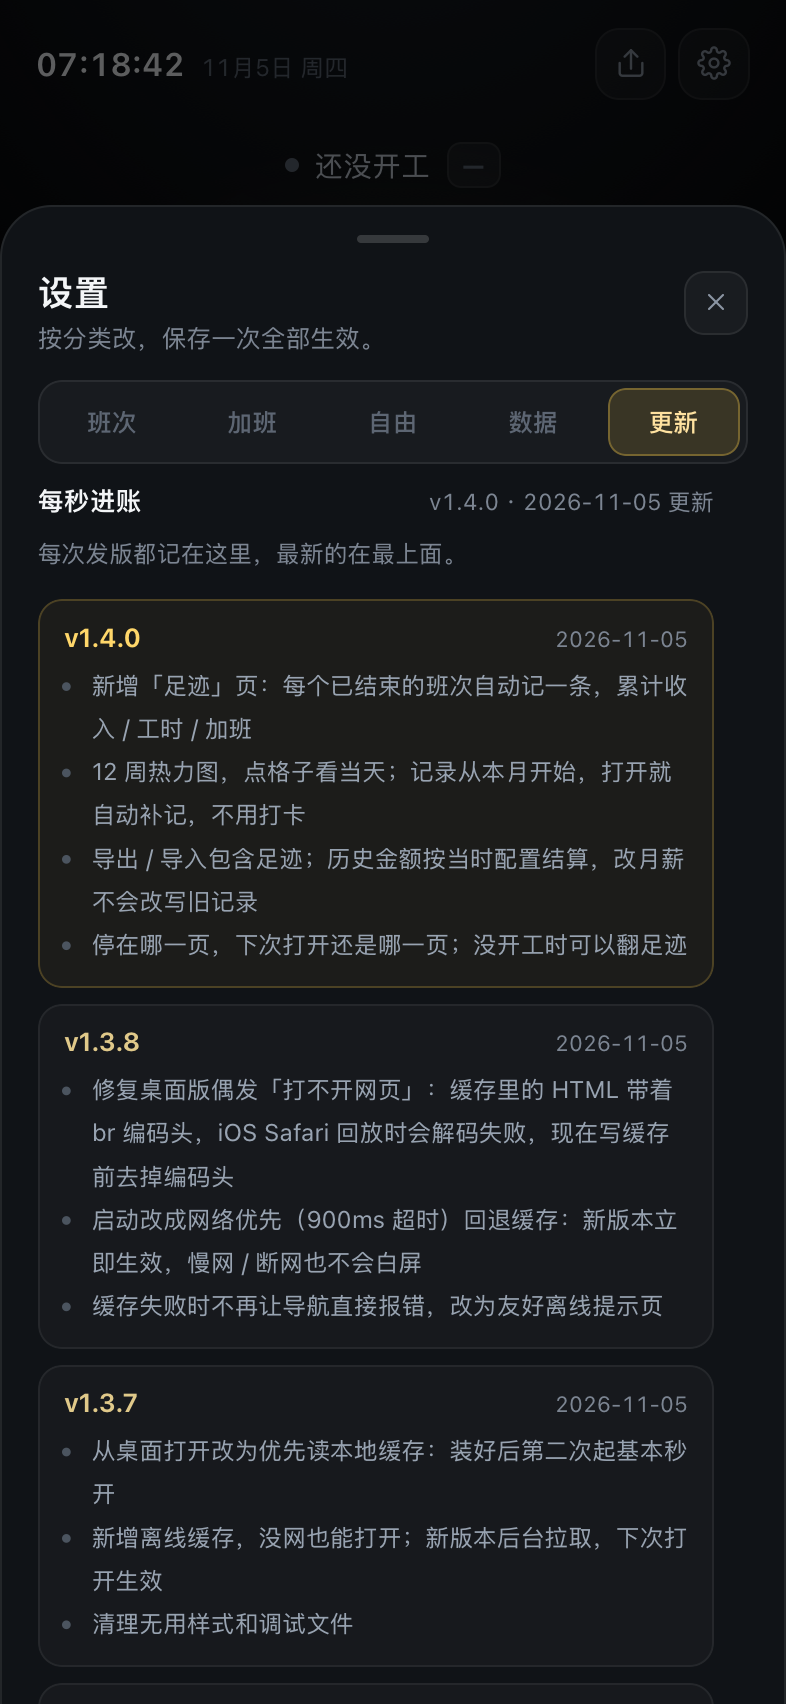
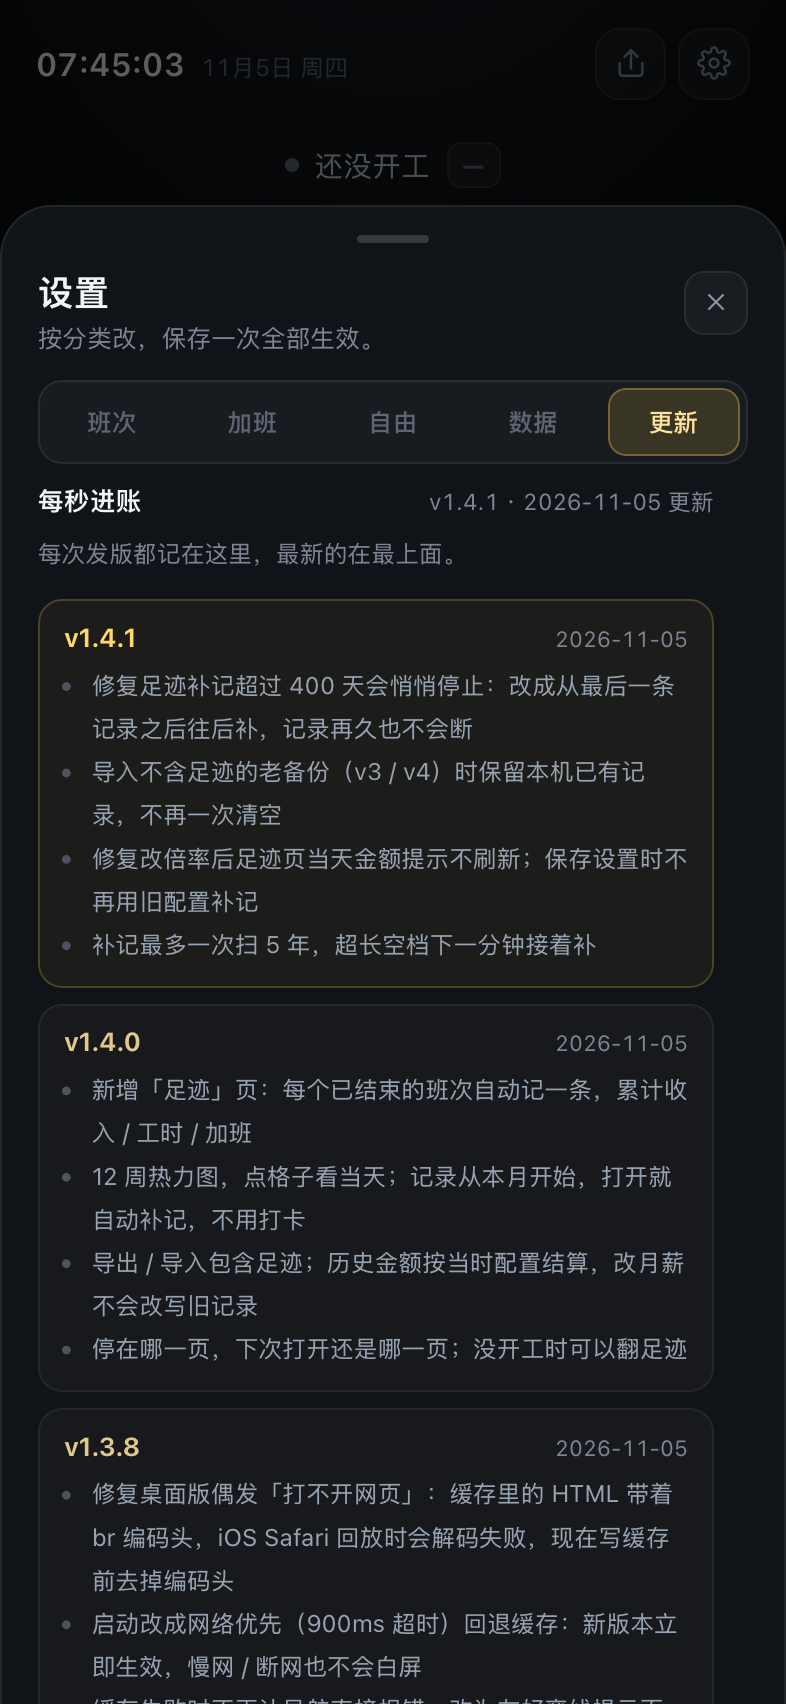
fix: keep footprint backfill alive past 400 days and preserve it on old imports (v1.4.1)

diff --git a/index.html b/index.html
@@ -1185,8 +1185,14 @@
   }
 
   // 当前版本 + 更新日志（发版时改这里，设置面板直接渲染）
-  var APP_VERSION = "1.4.0";
+  var APP_VERSION = "1.4.1";
   var CHANGELOG = [
+    { version: "1.4.1", date: "2026-11-05", items: [
+      "修复足迹补记超过 400 天会悄悄停止：改成从最后一条记录之后往后补，记录再久也不会断",
+      "导入不含足迹的老备份（v3 / v4）时保留本机已有记录，不再一次清空",
+      "修复改倍率后足迹页当天金额提示不刷新；保存设置时不再用旧配置补记",
+      "补记最多一次扫 5 年，超长空档下一分钟接着补"
+    ] },
     { version: "1.4.0", date: "2026-11-05", items: [
       "新增「足迹」页：每个已结束的班次自动记一条，累计收入 / 工时 / 加班",
       "12 周热力图，点格子看当天；记录从本月开始，打开就自动补记，不用打卡",
@@ -2009,6 +2015,20 @@
     return cells;
   }
 
+  // 补记从哪一天开始：recordStart 与「最后一条快照之后」取较大者。
+  // 增量补记只扫最近的空档，历史不会因为越记越久就每次都从头重扫。
+  function historyBackfillStart(history, recordStart, now){
+    var start = new Date(recordStart + "T00:00:00").getTime();
+    var end = startOfDay(now);
+    var latest = 0;
+    Object.keys(history || {}).forEach(function(k){
+      var t = new Date(k + "T00:00:00").getTime();
+      if (isFinite(t) && t <= end && t > latest) latest = t;
+    });
+    if (latest && latest + DAY_MS > start) start = latest + DAY_MS;
+    return start;
+  }
+
   // 解析一段备份文本；失败时 error 是给用户看的一句话
   function decodeBackup(raw){
     var out = { ok: false, error: "", version: 0, cfg: null, dayFlags: null, count: 0,
@@ -2081,17 +2101,19 @@
     } catch (e) {}
   }
 
-  // 自动补记：从 recordStart 到今天的每个已结束班次，各存一条快照
+  // 自动补记：从「最后一条快照之后」扫到今天的每个已结束班次，各存一条快照。
+  // 没有快照时从 recordStart 开始；单次最多扫 1830 天（约 5 年，实测 ~6ms），
+  // 更长的空档下一分钟会从上次停下的地方接着补，不会卡住。
   function ensureHistory(now){
     var changed = false;
     if (!isValidDateKey(state.recordStart)){
       state.recordStart = dayKey(startOfMonth(now));
       changed = true;
     }
-    var start = new Date(state.recordStart + "T00:00:00").getTime();
+    var start = historyBackfillStart(state.history, state.recordStart, now);
     var end = startOfDay(now);
     var d = start, guard = 0;
-    while (d <= end && guard++ < 400){
+    while (d <= end && guard++ < 1830){
       var k = dayKey(d);
       if (!state.history[k]){
         var snap = snapshotDay(state.cfg, state.dayFlags, d, now);
@@ -2105,11 +2127,15 @@
     }
   }
 
-  // 改了某天标记后，把那天已经生成的快照删掉，下一次 ensureHistory 重算
+  // 改了某天标记后，删掉旧快照并按当前配置重算。
+  // 不能只删不补：中间某天（早于最后一条快照）被删后，增量补记不会再扫到它。
   function dropHistory(dayTs){
     var k = dayKey(dayTs);
-    if (state.history[k]){
-      delete state.history[k];
+    var had = !!state.history[k];
+    if (had) delete state.history[k];
+    var snap = snapshotDay(state.cfg, state.dayFlags, dayTs, Date.now());
+    if (snap) state.history[k] = snap;
+    if (had || snap){
       state.historyRev += 1;
       save();
     }
@@ -2488,8 +2514,8 @@
       }
     }
     var sig = state.historyRev + "|" + Object.keys(state.history).length + "|" + todayK + "|" +
-      (todayLive ? Math.floor(todayLive.sec / 60) : -1) + "|" + state.recordStart + "|" +
-      Math.round(full) + "|" + Math.round(Number(state.cfg.salary) || 0);
+      (todayLive ? Math.floor(todayLive.sec / 60) + ":" + Math.round(todayLive.amount) : "-") + "|" +
+      state.recordStart + "|" + Math.round(full) + "|" + Math.round(Number(state.cfg.salary) || 0);
     if (sig === hmSig) return;
     hmSig = sig;
 
@@ -3380,9 +3406,9 @@
     cfg.otHoliday = Math.max(1, cfg.otHoliday);
     cfg.payday = Math.max(1, Math.min(31, cfg.payday));
 
-    ensureHistory(Date.now());
     state.cfg = cfg;
     state.firstRun = false;
+    ensureHistory(Date.now());
     cache = {};
     save();
     closeSheet();
@@ -3451,11 +3477,19 @@
   function doImport(){
     var parsed = decodeBackup(dataText.value);
     if (!parsed.ok){ toast(parsed.error); return; }
-    if (!confirm("导入会覆盖当前的配置、标记和足迹，继续？")) return;
+    var localDays = Object.keys(state.history).length;
+    // 老备份（v3/v4）没有足迹：保留本机记录，别让一次导入把足迹清空
+    var keepFootprint = parsed.historyCount === 0 && localDays > 0;
+    var tip = keepFootprint
+      ? "这份备份不含足迹，导入后保留本机已有的 " + localDays + " 天记录。配置和标记会被覆盖，继续？"
+      : "导入会覆盖当前的配置、标记和足迹" + (localDays ? "（" + localDays + " 天）" : "") + "，继续？";
+    if (!confirm(tip)) return;
     state.cfg = parsed.cfg;
     state.dayFlags = parsed.dayFlags;
-    state.history = parsed.history || {};
-    state.recordStart = parsed.recordStart || "";
+    if (!keepFootprint){
+      state.history = parsed.history || {};
+      state.recordStart = parsed.recordStart || "";
+    }
     state.historyRev += 1;
     state.firstRun = false;
     ensureHistory(Date.now());
@@ -3465,7 +3499,8 @@
     closeSheet();
     render();
     toast("已导入 · 月薪 ¥" + fmt0(state.cfg.salary) + " · " + parsed.count + " 天标记"
-      + (parsed.historyCount ? " · " + parsed.historyCount + " 天足迹" : "") + versionNote(parsed.version));
+      + (parsed.historyCount ? " · " + parsed.historyCount + " 天足迹" : (keepFootprint ? " · 保留本机足迹" : ""))
+      + versionNote(parsed.version));
   }
 
   function pasteIntoData(){

diff --git a/sw.js b/sw.js
@@ -8,7 +8,7 @@
  * 导航策略：网络优先（900ms 超时），失败回退干净缓存，再失败给友好离线页。
  * 这样新版能立刻生效，慢网/断网也不会白屏。
  */
-const VERSION = "1.4.0";
+const VERSION = "1.4.1";
 const CACHE = "money-meter-" + VERSION;
 const CORE = [
   "./index.html",

diff --git a/README.zh.md b/README.zh.md
@@ -185,7 +185,7 @@
 - 12 周热力图：颜色越深表示当天班越长，点格子能看当天的工时和金额
 - 累计上班天数 / 工时 / 加班，本月、上月、平均每班，一页看完
 - 停在这一页，下次打开还是「足迹」——没开工时也有东西可翻
-- 导出 / 导入会带上足迹；换设备不丢记录
+- 导出 / 导入会带上足迹；换设备不丢记录；导入不含足迹的老备份时会保留本机记录
 - 不定位、不上传、不后台运行：这是网页能做到的边界，记录的是"时间换来的钱"，不是你去过哪里
 
 <p align="center">
@@ -285,7 +285,7 @@
 
 ## 版本与更新
 
-- 当前版本 **v1.4.0**（2026-11-05）
+- 当前版本 **v1.4.1**（2026-11-05）
 - 设置分成「班次 / 加班 / 自由 / 数据 / 更新」五类；更新日志在「更新」页，有版本号、更新时间、每个版本改了什么
 - 有新版本时点设置会直接打开「更新」页，右上角齿轮也会亮一个小圆点；看过一次就不再提示
 - 屏幕够高时主界面底部也会显示版本号（矮屏收在设置 → 更新里）
@@ -301,7 +301,7 @@
 - 改了设置随时生效，加班/请假/节假日标记按天保留（保留最近 150 天），记录面板列最近 30 天
 - 记错了：主界面再点一下同样的按钮取消，或者去 设置 → 数据 →「打开记录」删掉那天
 - **换设备 / 清缓存前先备份**：设置 → 数据 →「导出配置」，把整段 JSON 粘到备忘录；新设备上「导入配置」原样搬回来（月薪、班次、多段休息、倍率、所有标记）
-- 导入会覆盖当前配置与标记；备份带版本号，老版本会自动迁移
+- 导入会覆盖当前配置与标记；备份带版本号，老版本会自动迁移。备份里带足迹时足迹一并替换，不含足迹的老备份（v3 / v4）则保留本机已有记录
 - 设置 → 数据页有「清空加班 / 请假标记」
 
 ---
@@ -316,7 +316,7 @@ money-meter/
 ├── manifest.json       添加到主屏幕用的 Web App 配置
 ├── icon.svg / *.png    图标
 ├── shots/              截图
-├── tests/core.test.mjs 计薪内核单元测试（255 项）
+├── tests/core.test.mjs 计薪内核单元测试（263 项）
 └── tools/
     ├── make_icons.py   重新生成图标
     └── shot.swift      用 WKWebView 渲染截图（自检用）
@@ -328,7 +328,7 @@ money-meter/
 node tests/core.test.mjs
 ```
 
-覆盖了：跨零点班次归属、凌晨仍在班上、班次内/外加班、休息落在加班里、休息压在上下班边界、多段休息与重叠/跨零点、上 N 休 M 循环排班（含锚点前后与平均班数）、不上班、周末整班双倍、法定节假日 3×、本月累计、本月上班/加班/请假天数、足迹快照（含加班/节假日只算一次）、热力图格数、备份 v5、导出/导入校验与老配置迁移、记录面板的补录规则与排序、更新日志格式、4% 法则与复利年限、24:00、发薪日、格式化，以及一堆边界（月薪 0、没有工作日、缺字段、月光族、已存够）。
+覆盖了：跨零点班次归属、凌晨仍在班上、班次内/外加班、休息落在加班里、休息压在上下班边界、多段休息与重叠/跨零点、上 N 休 M 循环排班（含锚点前后与平均班数）、不上班、周末整班双倍、法定节假日 3×、本月累计、本月上班/加班/请假天数、足迹快照（含加班/节假日只算一次）、增量补记起点、热力图格数、备份 v5、导出/导入校验与老配置迁移、记录面板的补录规则与排序、更新日志格式、4% 法则与复利年限、24:00、发薪日、格式化，以及一堆边界（月薪 0、没有工作日、缺字段、月光族、已存够）。
 
 想改默认值：`index.html` 里搜 `DEFAULTS`。
 想改配色：CSS 顶部的 `:root` 变量（`--gold` 一改，整屏跟着变）。
